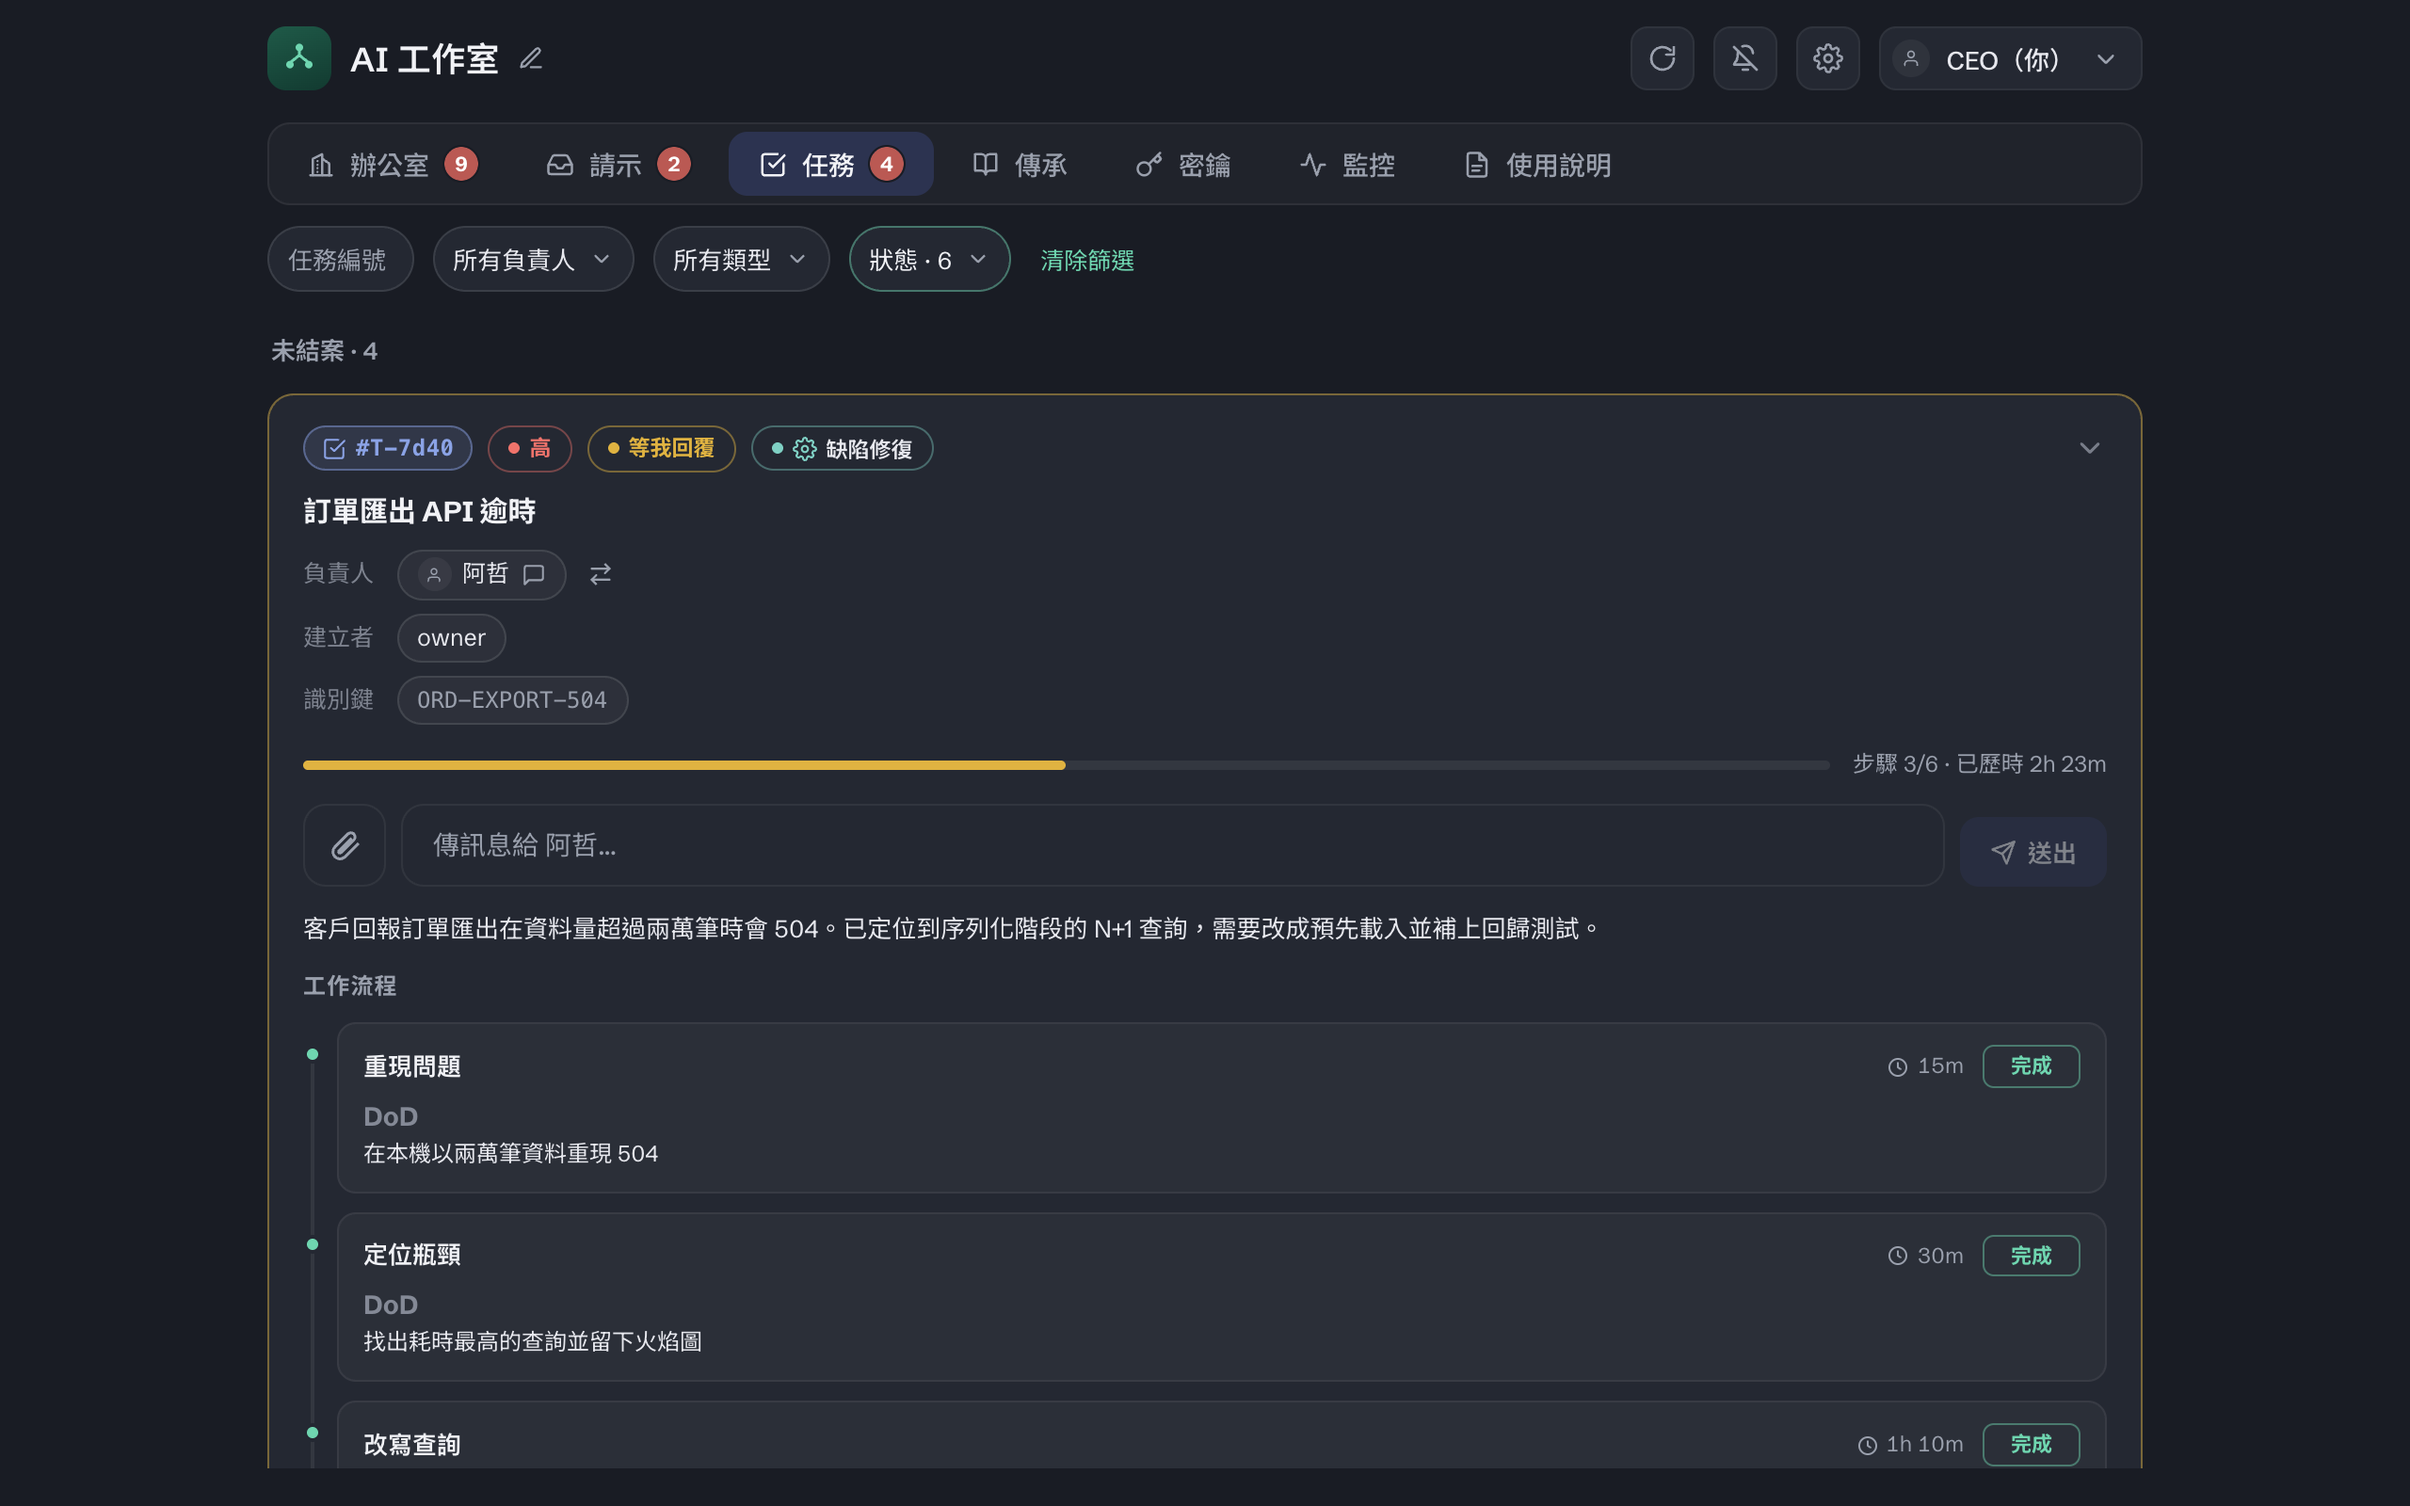
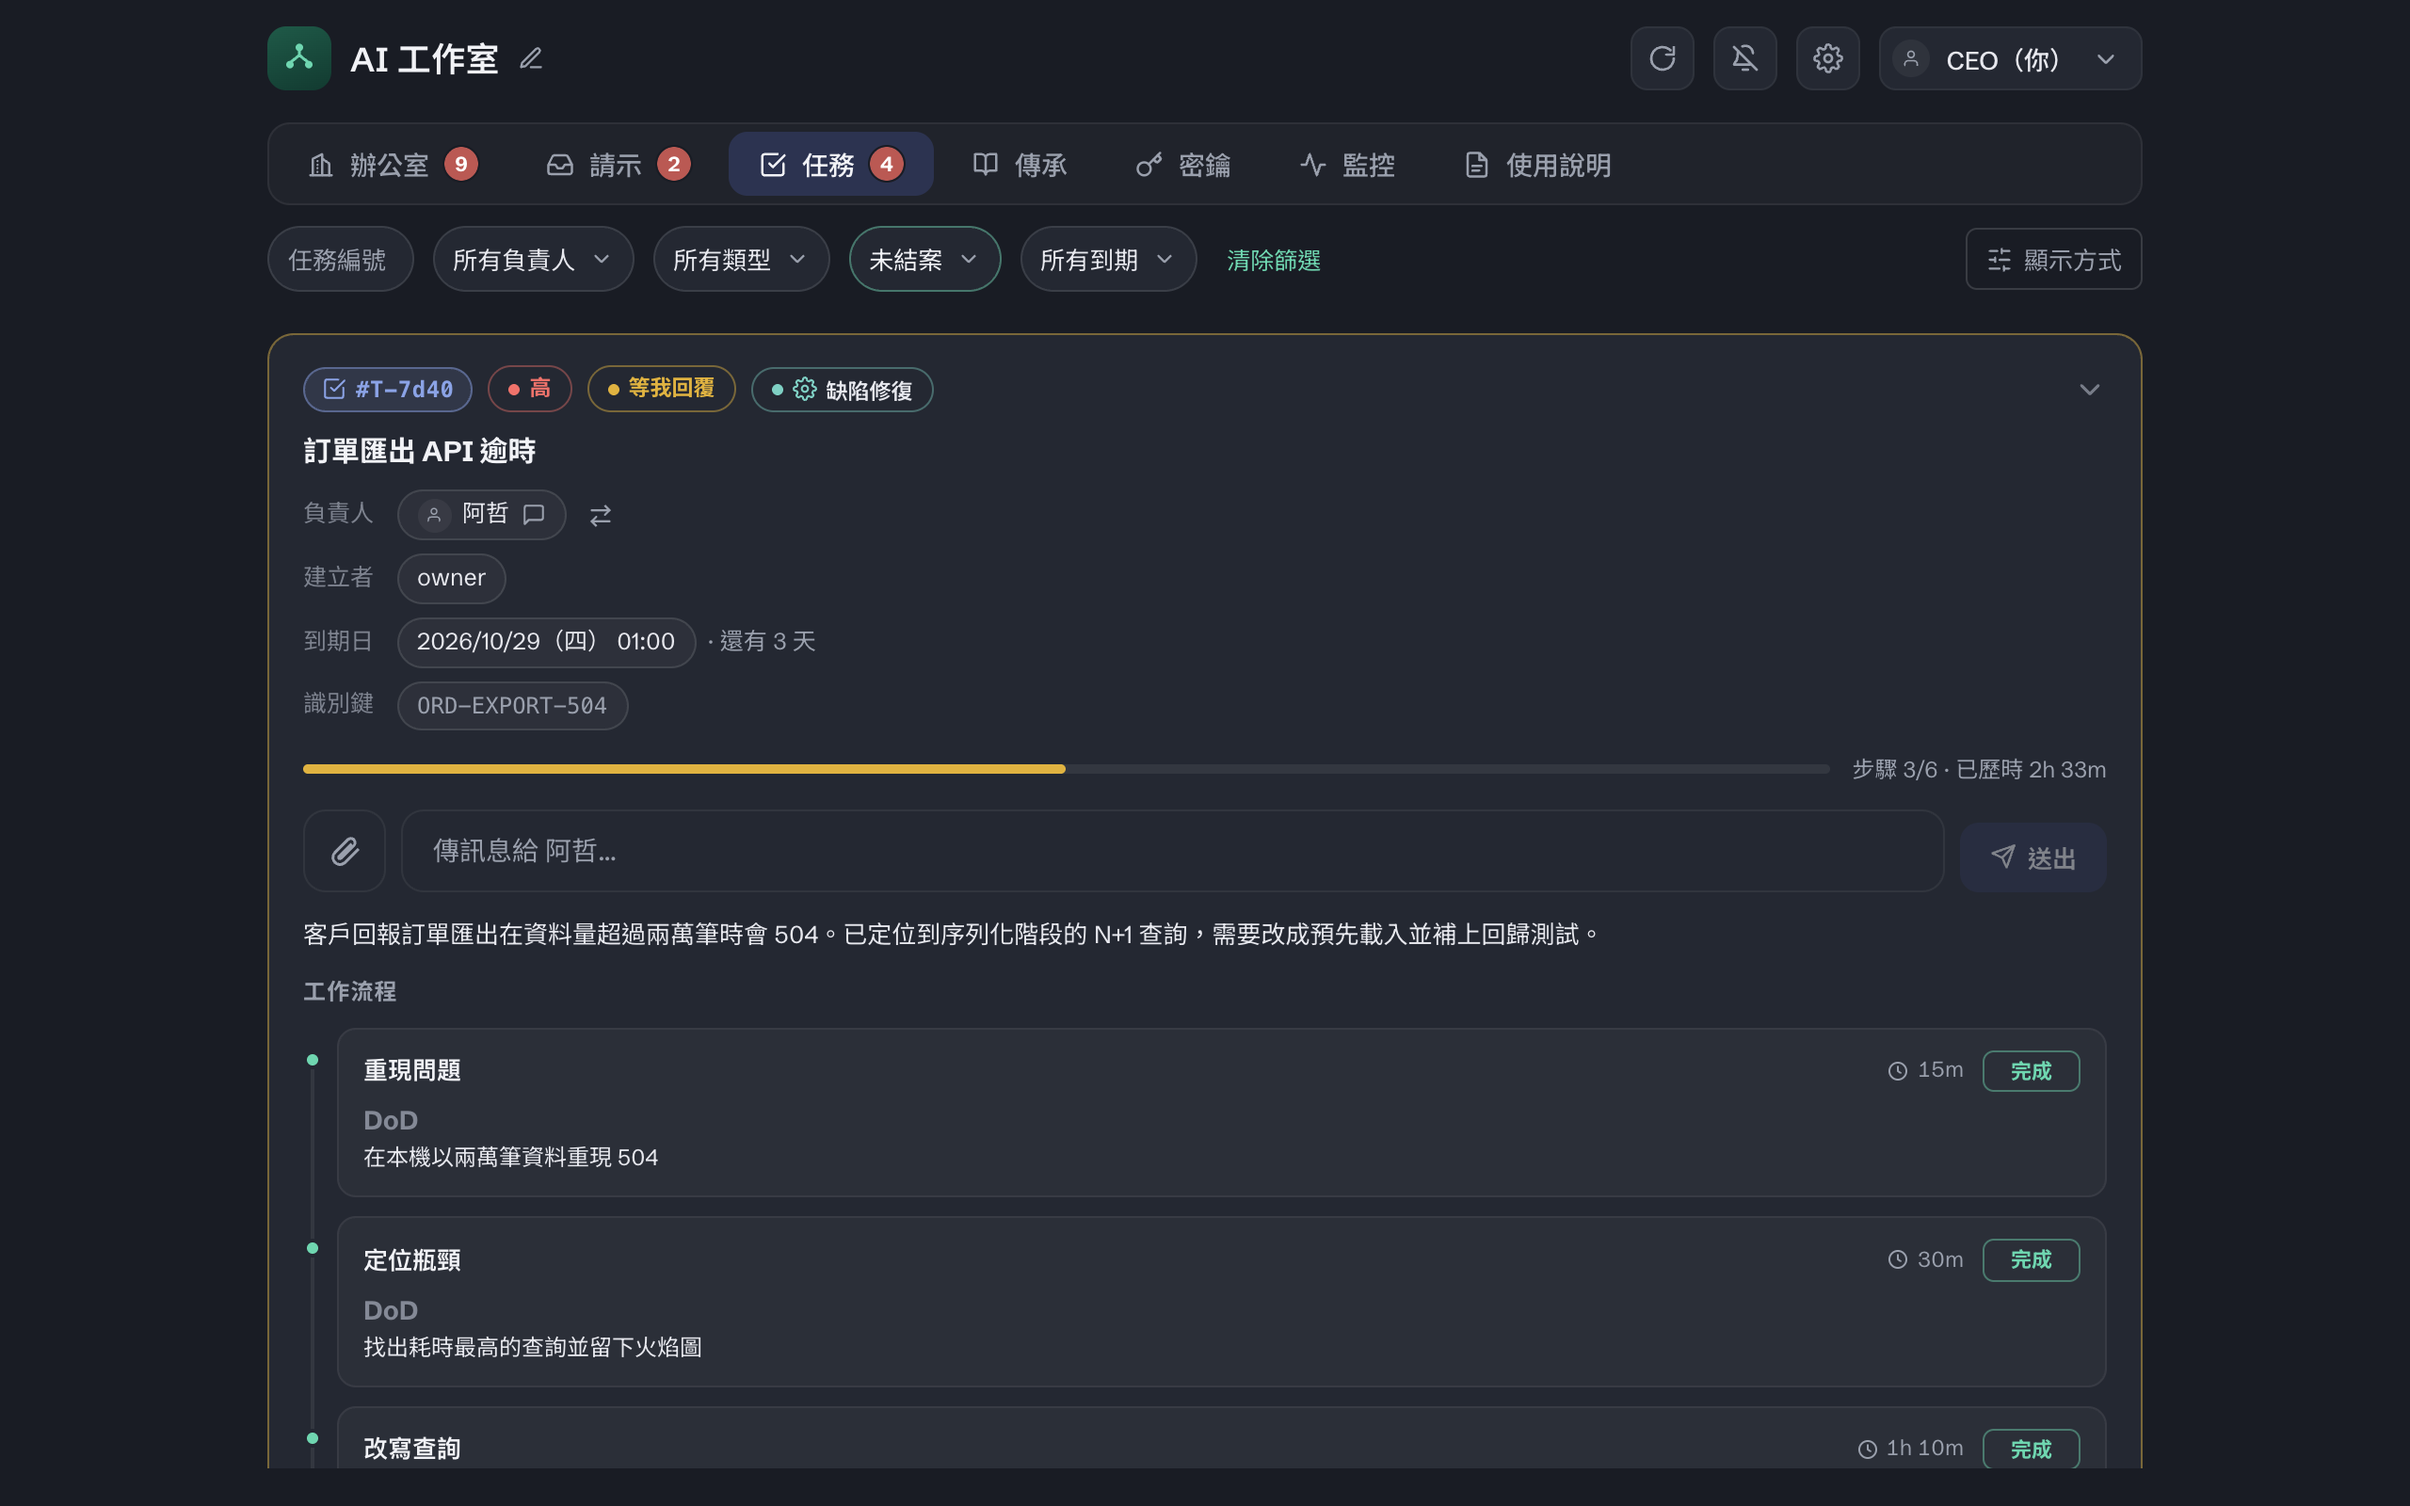
docs(guide): retake the task screenshot and fix the status filter text for the single task list

diff --git a/docs/guide/tasks.md b/docs/guide/tasks.md
@@ -23,7 +23,7 @@
 
 ![任務卡](assets/cockpit-task.png)
 
-「任務」分頁先列未結案的任務，再列已結案的任務，分頁上的數字是未結案的任務數。上方的篩選列有「任務編號」「所有負責人」「所有類型」「狀態」「所有到期」五個欄位。「狀態」預設只勾選還沒結案的狀態，按鈕上會寫出勾了幾種。有任何篩選條件時，欄位後面會出現「清除篩選」，按下去會清掉全部條件，包括狀態，已完成與已終止的任務也會列出來。
+「任務」分頁先列未結案的任務，再列已結案的任務，分頁上的數字是未結案的任務數。上方的篩選列有「任務編號」「所有負責人」「所有類型」「狀態」「所有到期」五個欄位。「狀態」預設只勾選還沒結案的狀態，按鈕上寫「未結案」；選單最上面的「未結案」「已結案」兩列可以一次勾選或取消一整組狀態。因為狀態預設就有篩選，欄位後面一開始就有「清除篩選」，按下去會清掉全部條件，包括狀態，已完成與已終止的任務也會列出來。
 
 「所有到期」可以勾選「已逾期」「快到期」，只列出符合的未結案任務。篩選列最右邊的「顯示方式」裡有「分組依據」，可以選不分組、到期狀態、優先權、負責人、類型或狀態。選「到期狀態」時，任務分成「已逾期」「即將到期」「之後到期」「沒有到期日」幾組，組內依到期日由早到晚排列；已結案的任務也依到期日分組。每一組都可以收合，預設只展開第一組。分組依據會記在這個瀏覽器上。
 

diff --git a/docs/guide/interface.md b/docs/guide/interface.md
@@ -97,7 +97,7 @@
 ## 任務
 
 - **任務列表** — 未結案的在前，已結案的在後。
-- **篩選列** — 「任務編號」欄位、「所有負責人」「所有類型」「所有狀態」「所有到期」四個下拉、「清除篩選」。下拉選了就生效；編號欄位按 Enter 或點到欄位外才生效。
+- **篩選列** — 「任務編號」欄位、「所有負責人」「所有類型」「狀態」（預設寫「未結案」）「所有到期」四個下拉、「清除篩選」。下拉選了就生效；編號欄位按 Enter 或點到欄位外才生效。
 - **顯示方式** — 篩選列最右邊，裡面的「分組依據」可選不分組、到期狀態、優先權、負責人、類型、狀態。
 - **找不到任務時** — 「沒有符合篩選條件的任務」表示確實沒有符合的任務；「暫時無法確認「T-…」是否存在，請稍後再試。」表示查詢失敗。
 
